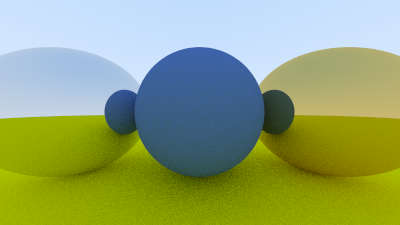
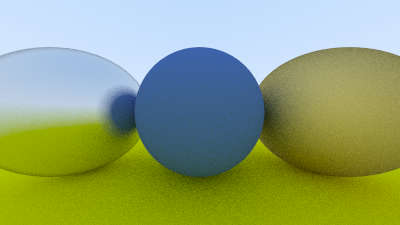
Adding fuzz to metal

diff --git a/RayTracer/src/material.rs b/RayTracer/src/material.rs
@@ -41,20 +41,25 @@ impl Material for Lambertian {
 
 pub struct Metal {
     albedo: Vec3,
+    fuzz: f64,
 }
 
 impl Metal {
-    pub fn new(albedo: Vec3) -> Self {
-        Self { albedo }
+    pub fn new(albedo: Vec3, fuzz: f64) -> Self {
+        Self { albedo, fuzz, }
     }
 }
 
 impl Material for Metal {
     fn scatter(&self, ray_in: &Ray, hit_record: &HitRecord) -> Option<ScatterRec> {
-        let reflected = ray_in.dir.reflect(hit_record.normal);
-        Some(ScatterRec::new(
-            self.albedo,
-            Ray::new(hit_record.p, reflected, ray_in.cnt - 1),
-        ))
+        let reflected = ray_in.dir.reflect(hit_record.normal).normalize() + self.fuzz * Vec3::random_unit();
+        if reflected.dot(&hit_record.normal) > 0.0 {
+            Some(ScatterRec::new(
+                self.albedo,
+                Ray::new(hit_record.p, reflected, ray_in.cnt - 1),
+            ))
+        } else {
+            None
+        }
     }
 }

diff --git a/RayTracer/src/main.rs b/RayTracer/src/main.rs
@@ -31,8 +31,8 @@ fn main() {
 
     let material_ground = Arc::new(Lambertian::new(Vec3::new(0.8,0.8, 0.0)));
     let material_center = Arc::new(Lambertian::new(Vec3::new(0.1, 0.2, 0.5)));
-    let material_left = Arc::new(Metal::new(Vec3::new(0.8, 0.8, 0.8)));
-    let material_right = Arc::new(Metal::new(Vec3::new(0.8, 0.6, 0.2)));
+    let material_left = Arc::new(Metal::new(Vec3::new(0.8, 0.8, 0.8), 0.3));
+    let material_right = Arc::new(Metal::new(Vec3::new(0.8, 0.6, 0.2), 1.0));
 
     let camera = Camera::new(
         400, 
